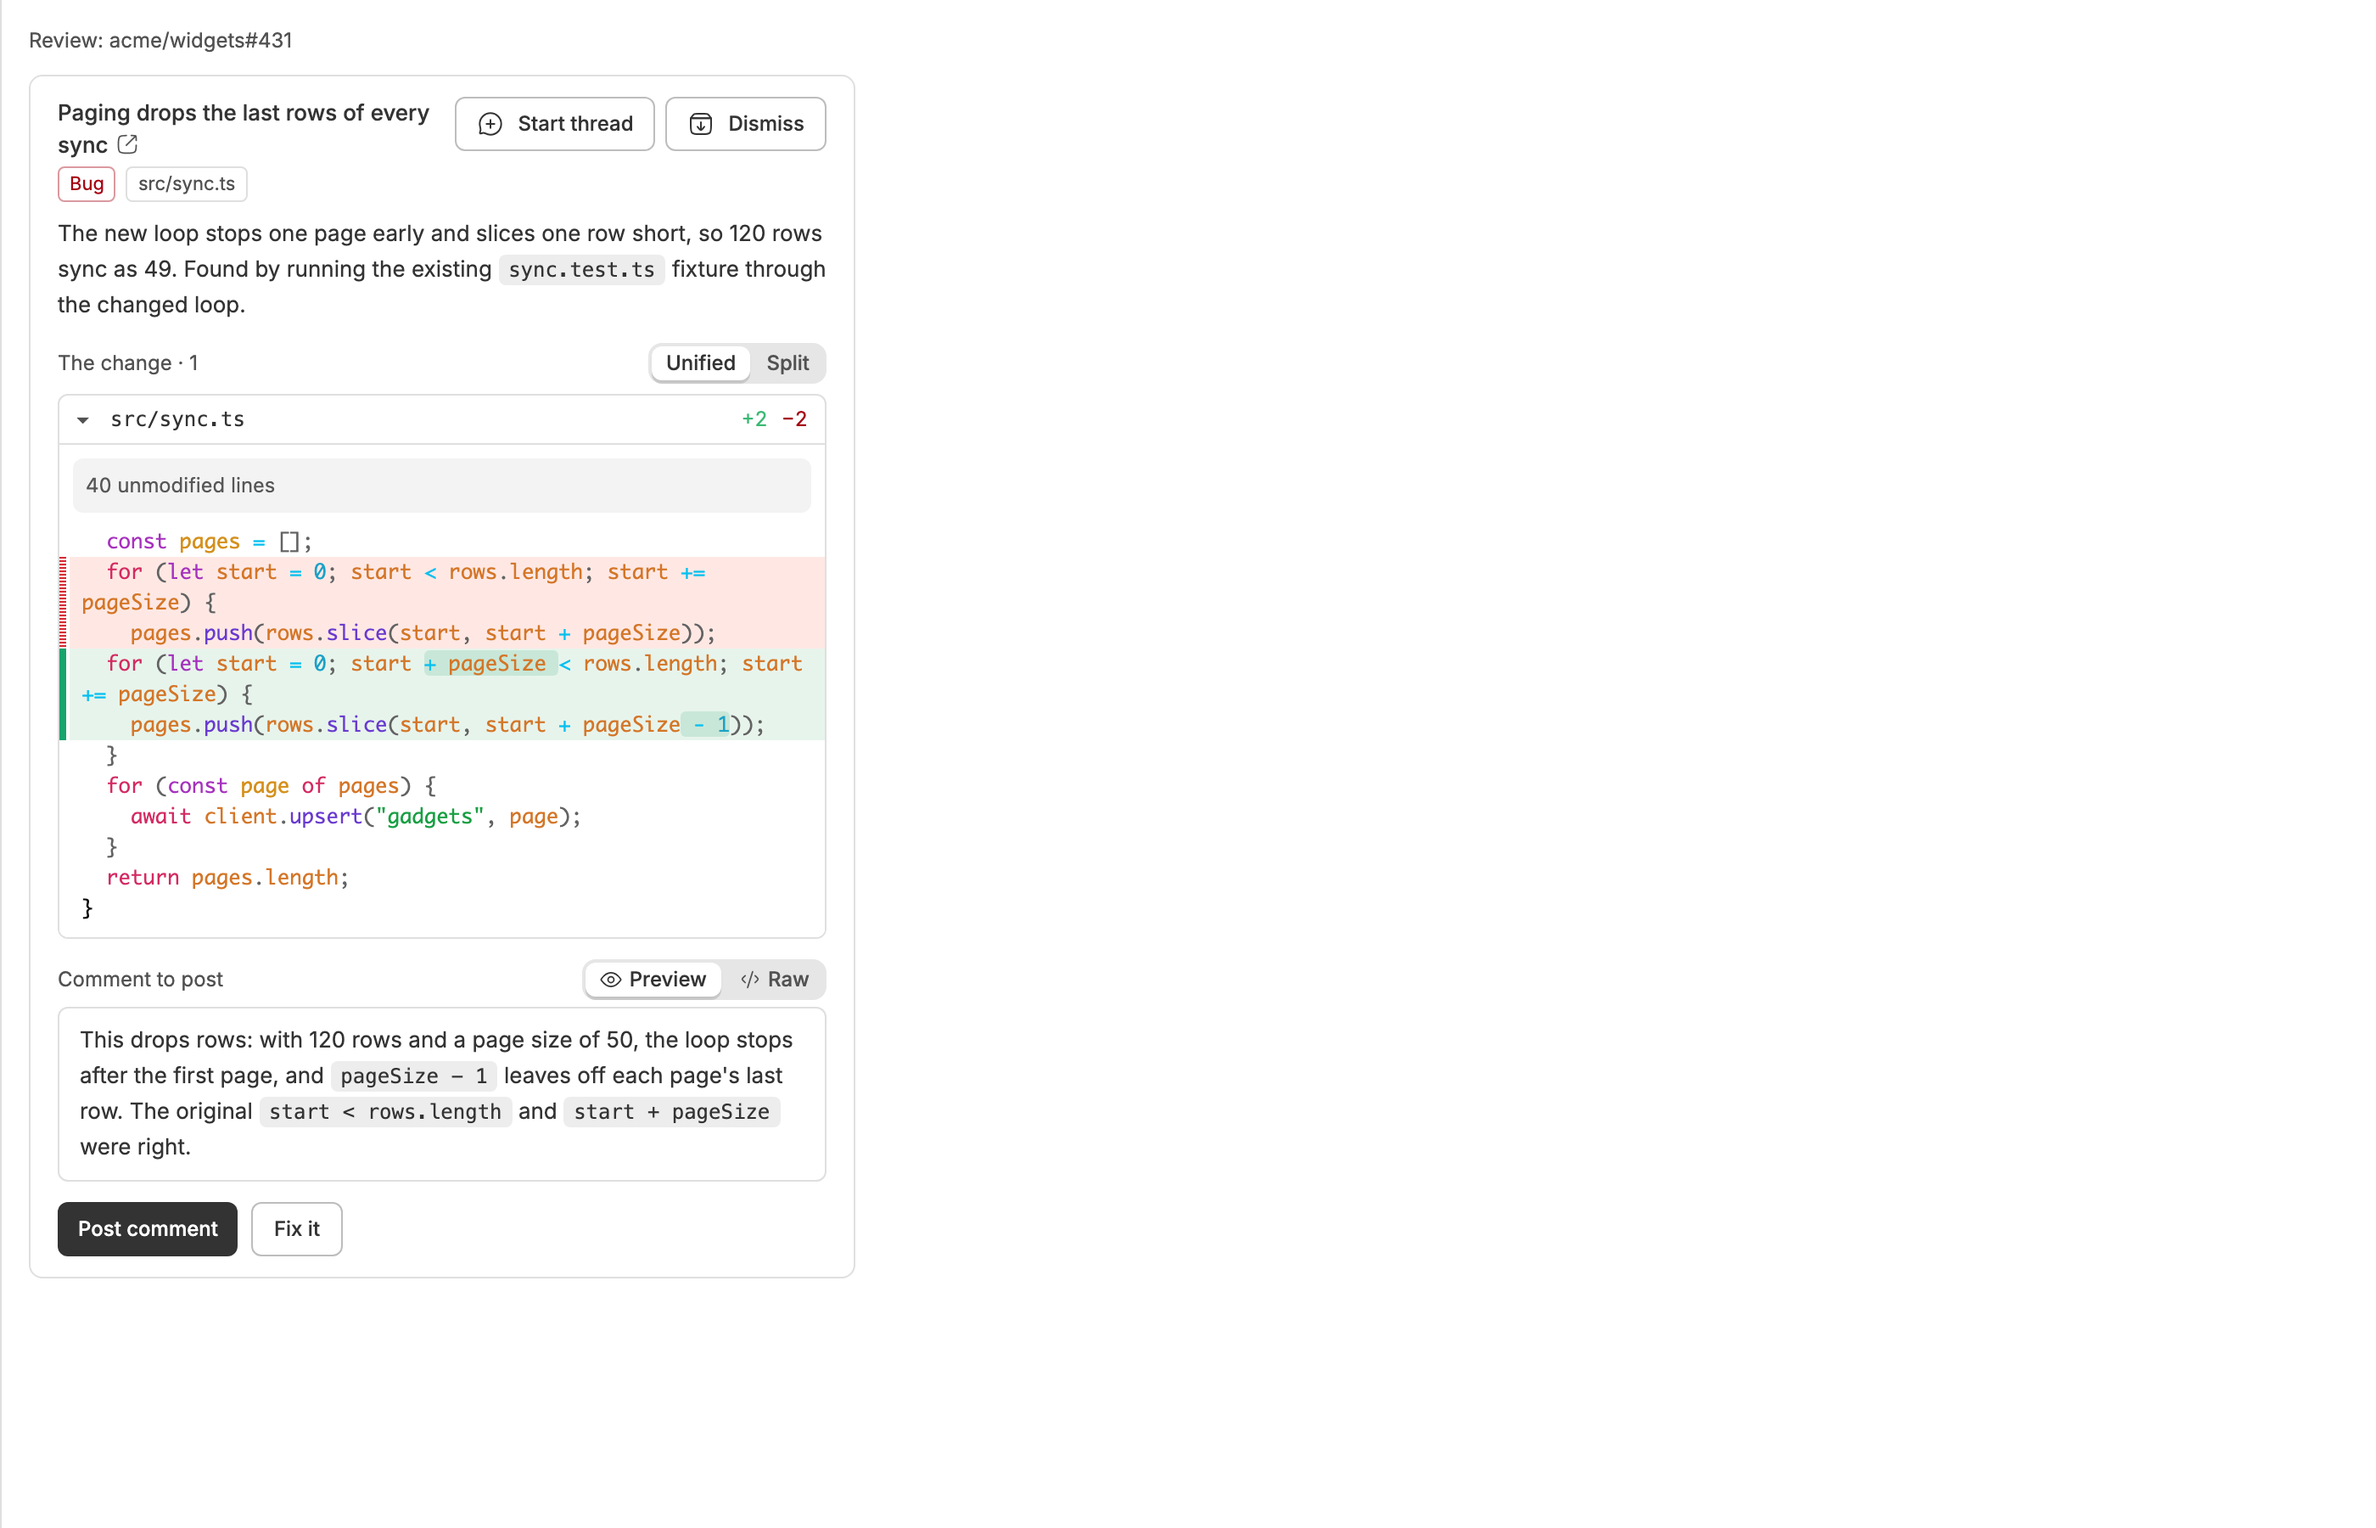
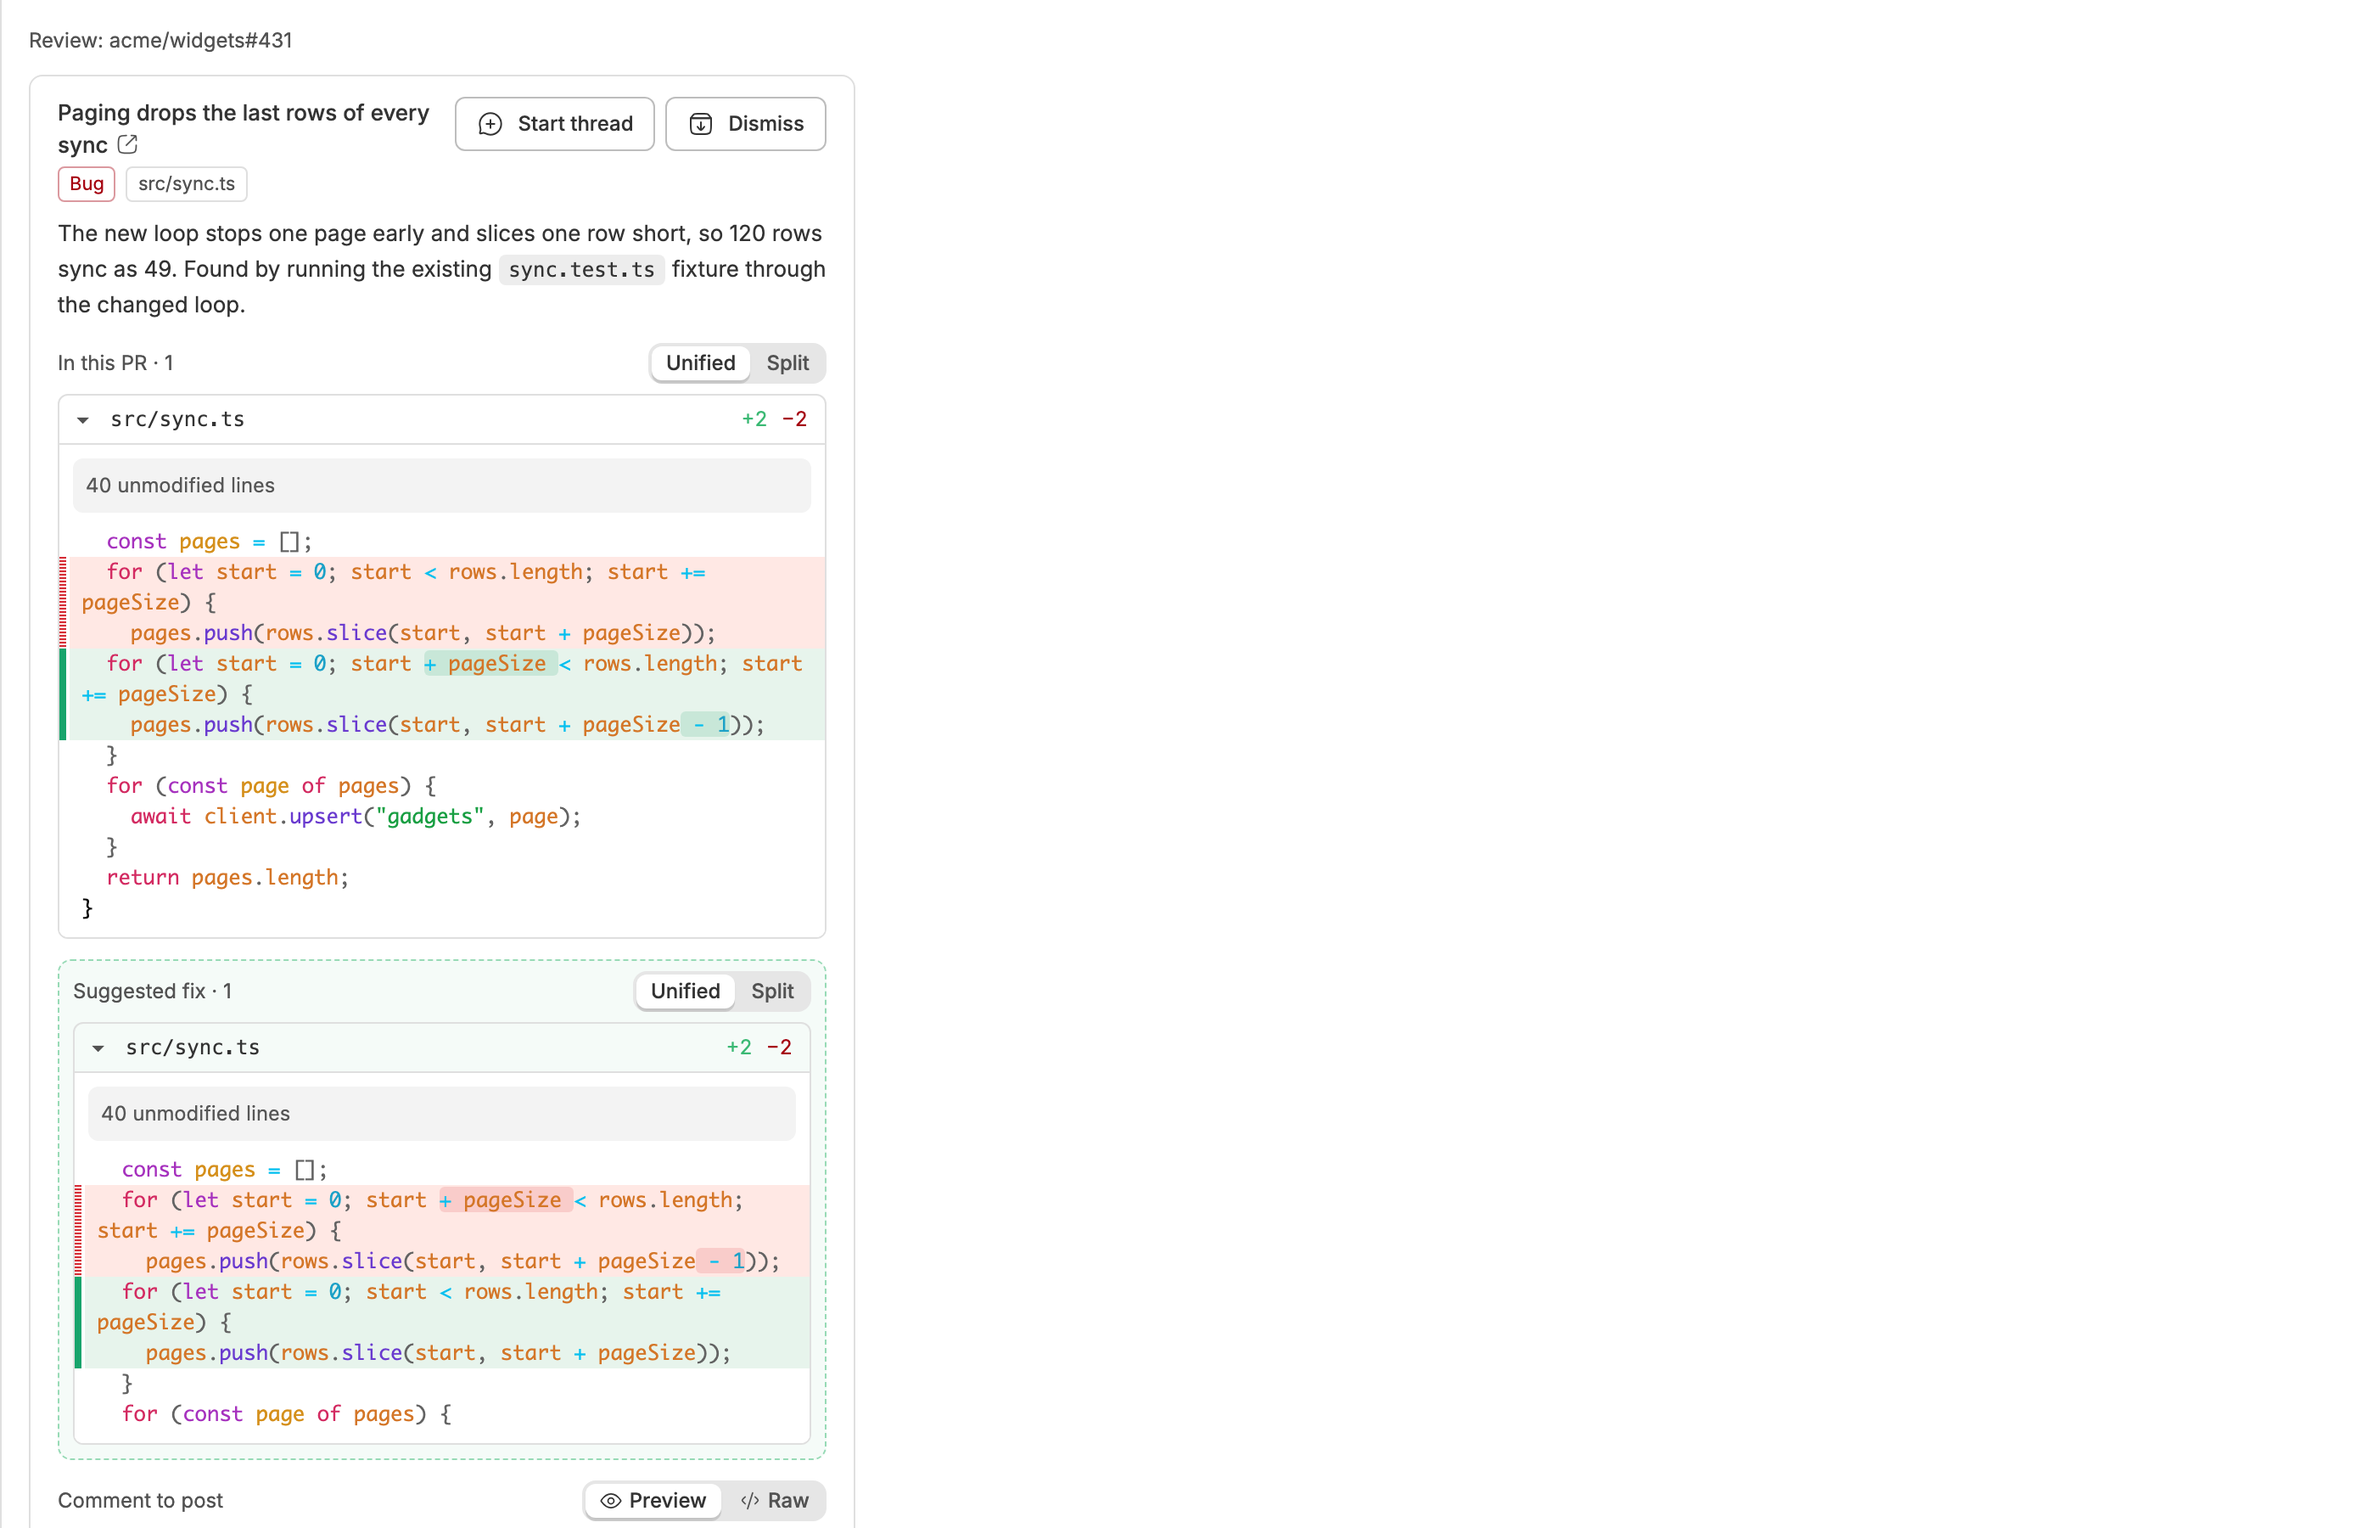
80d7270 Add a closing step to Impromptu UI views, such as a review's verdict
danielbachhuber/bb-plugins@80d727062d899565aaf4ac89baed2b7881c072cc

diff --git a/impromptu-ui/README.md b/impromptu-ui/README.md
@@ -122,6 +122,18 @@ After Build it: the row says so, and the panel keeps the note that went with it.
 
 ![Before after sent](thread--before-after-sent.png)
 
+### Closing step waiting
+
+A review with its verdict as the closing step: under the findings rather than first. Opened early, it says what is left and its buttons wait.
+
+![Closing step waiting](thread--closing-step-waiting.png)
+
+### Closing step ready
+
+Every finding handled: the closing step opens, its summary tallies what was done, and its buttons work.
+
+![Closing step ready](thread--closing-step-ready.png)
+
 ### Visual review now round
 
 Picking a design: four directions for a summary above the Now list, with one square per row picked.
@@ -336,7 +348,7 @@ The lockfile's raw diff, one click from its packages, here split side by side.
 
 ### Changes code review
 
-A code review finding: the hunk it is about, above the comment to post.
+A code review finding: the pull request's hunk under In this PR, the fix it suggests in its own tinted block, then the comment to post.
 
 ![Changes code review](view--changes-code-review.png)
 
